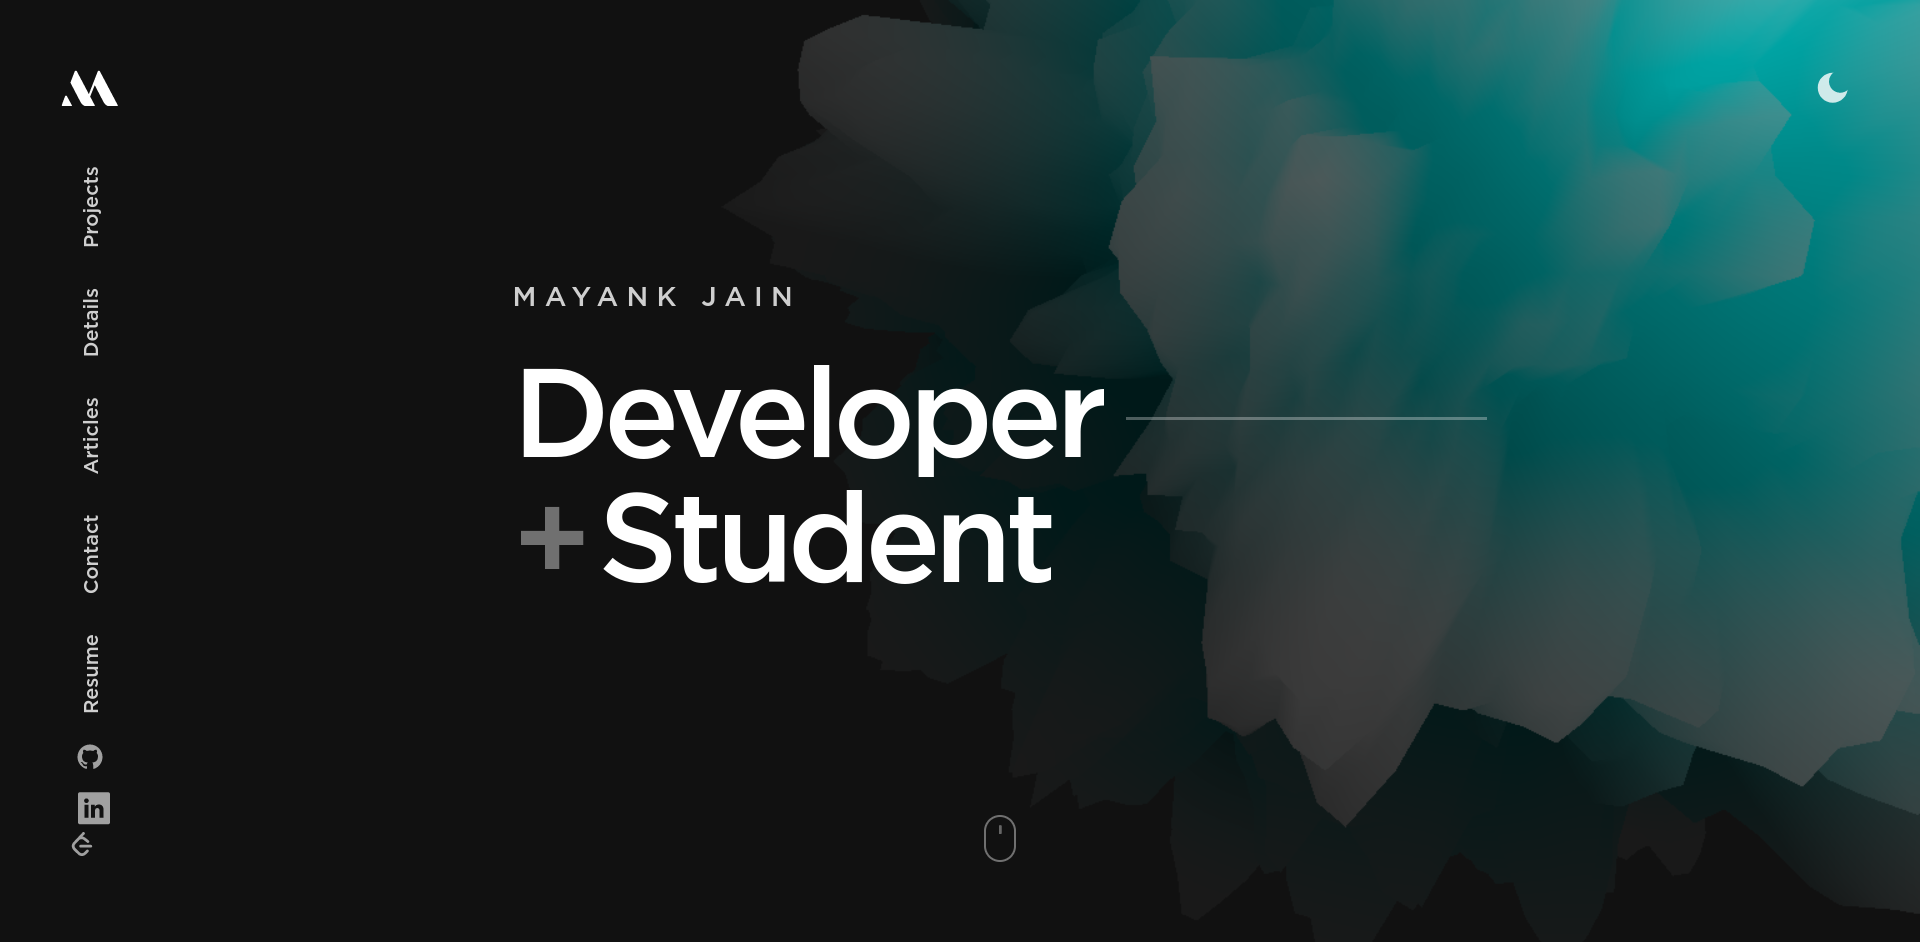
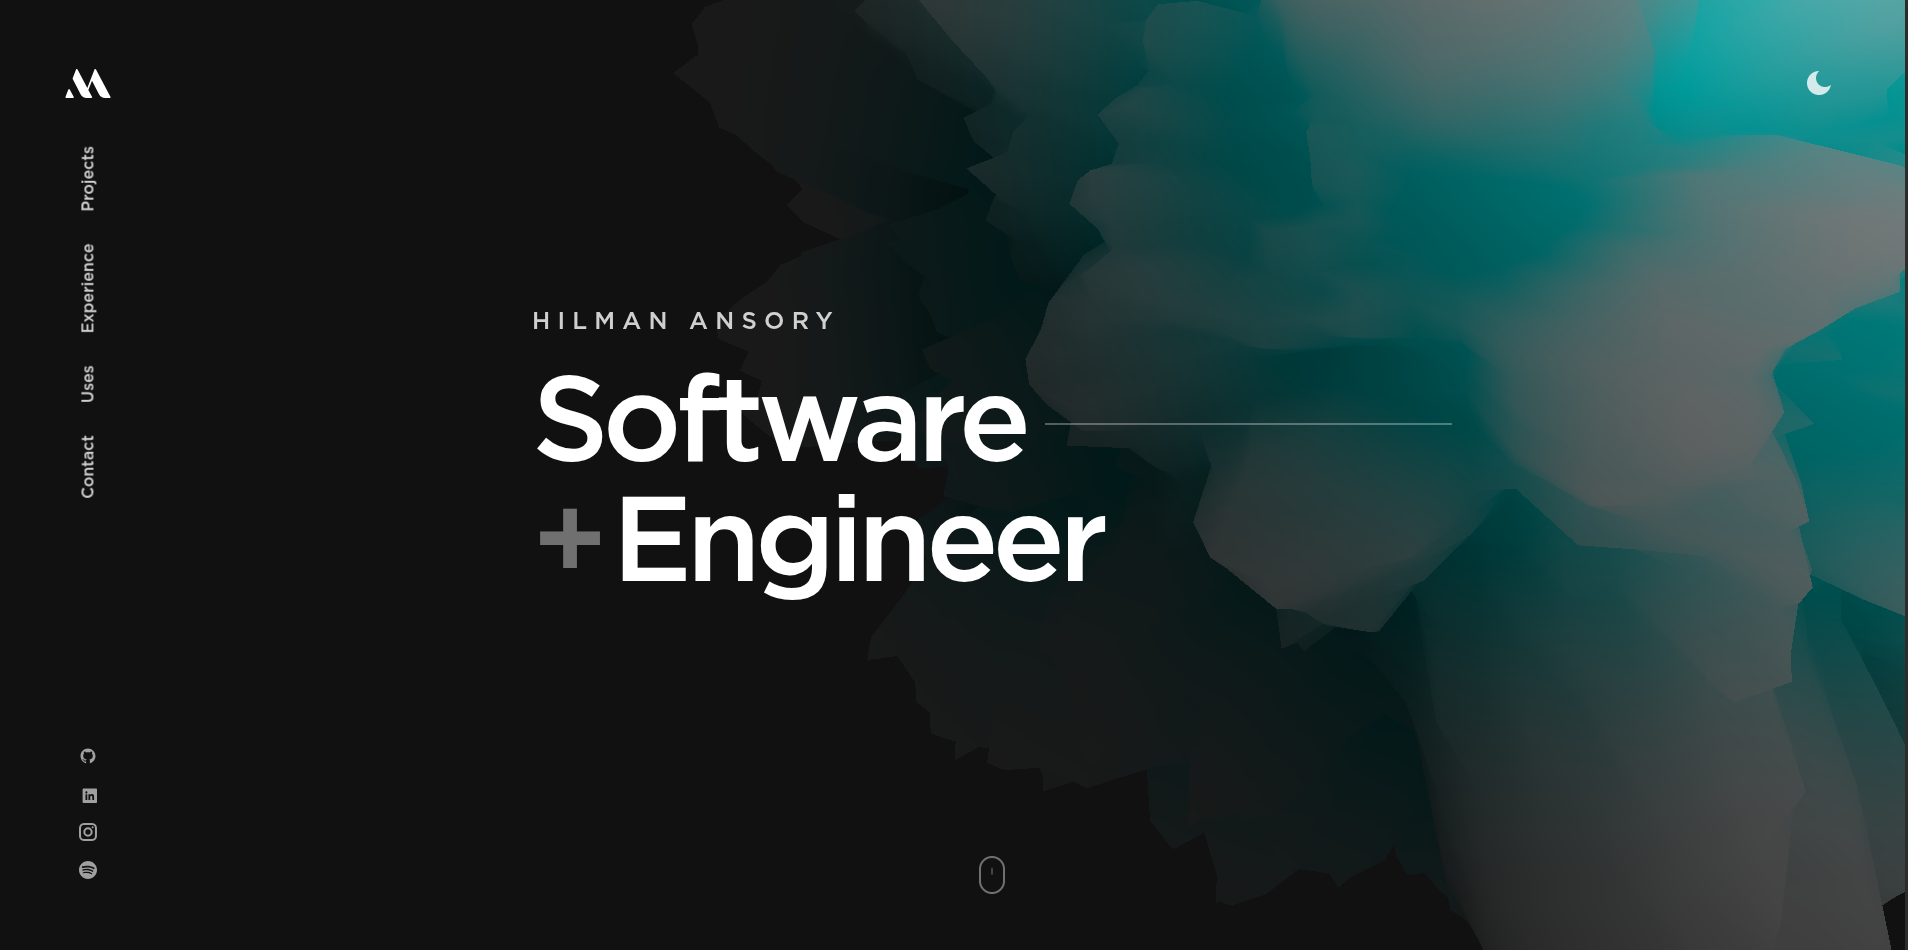
.

diff --git a/src/layouts/Home/Profile.js b/src/layouts/Home/Profile.js
@@ -33,7 +33,7 @@ const ProfileText = ({ visible, titleId }) => (
     <Text className={styles.description} data-visible={visible} size="l" as="p">
       I still have a strong interest in{' '}
       <Link href="https://open.spotify.com/user/31jva75tq4nziw65avn7xgv3b73q">
-        database engineering{' '}
+        data engineering{' '}
       </Link>
       and enjoy integrating data-driven insights into my projects. I thrive in
       collaborative environments, always eager to learn new skills, and excited to

diff --git a/src/components/Navbar/navData.js b/src/components/Navbar/navData.js
@@ -3,10 +3,10 @@ export const navLinks = [
     label: 'Projects',
     pathname: '/#project-1',
   },
-  {
-    label: 'Experience',
-    pathname: '/experience',
-  },
+  // {
+  //   label: 'Experience',
+  //   pathname: '/experience',
+  // },
   {
     label: 'Uses',
     pathname: '/uses',
